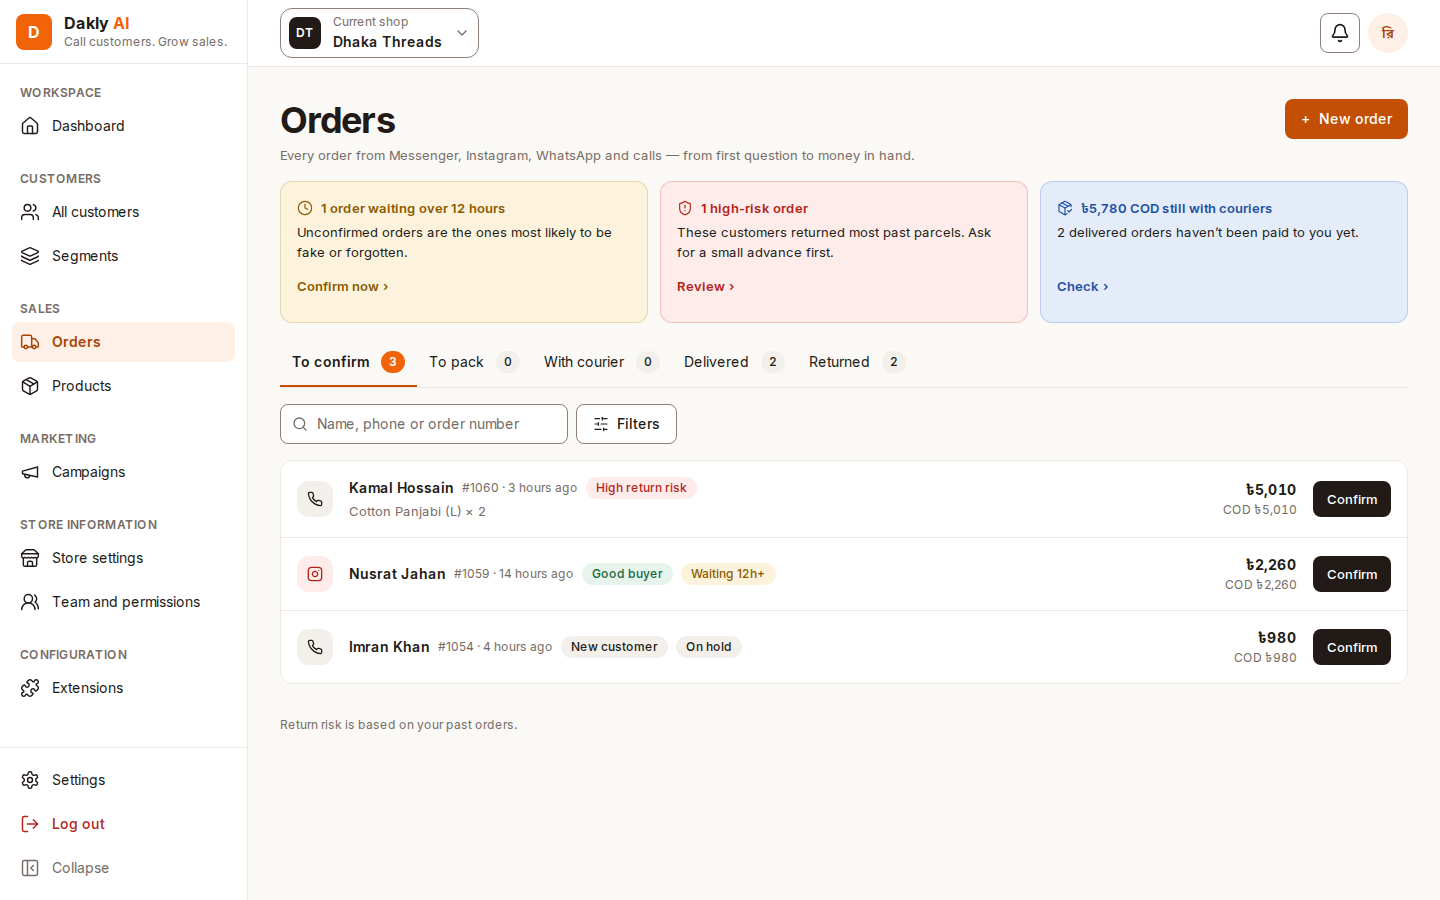
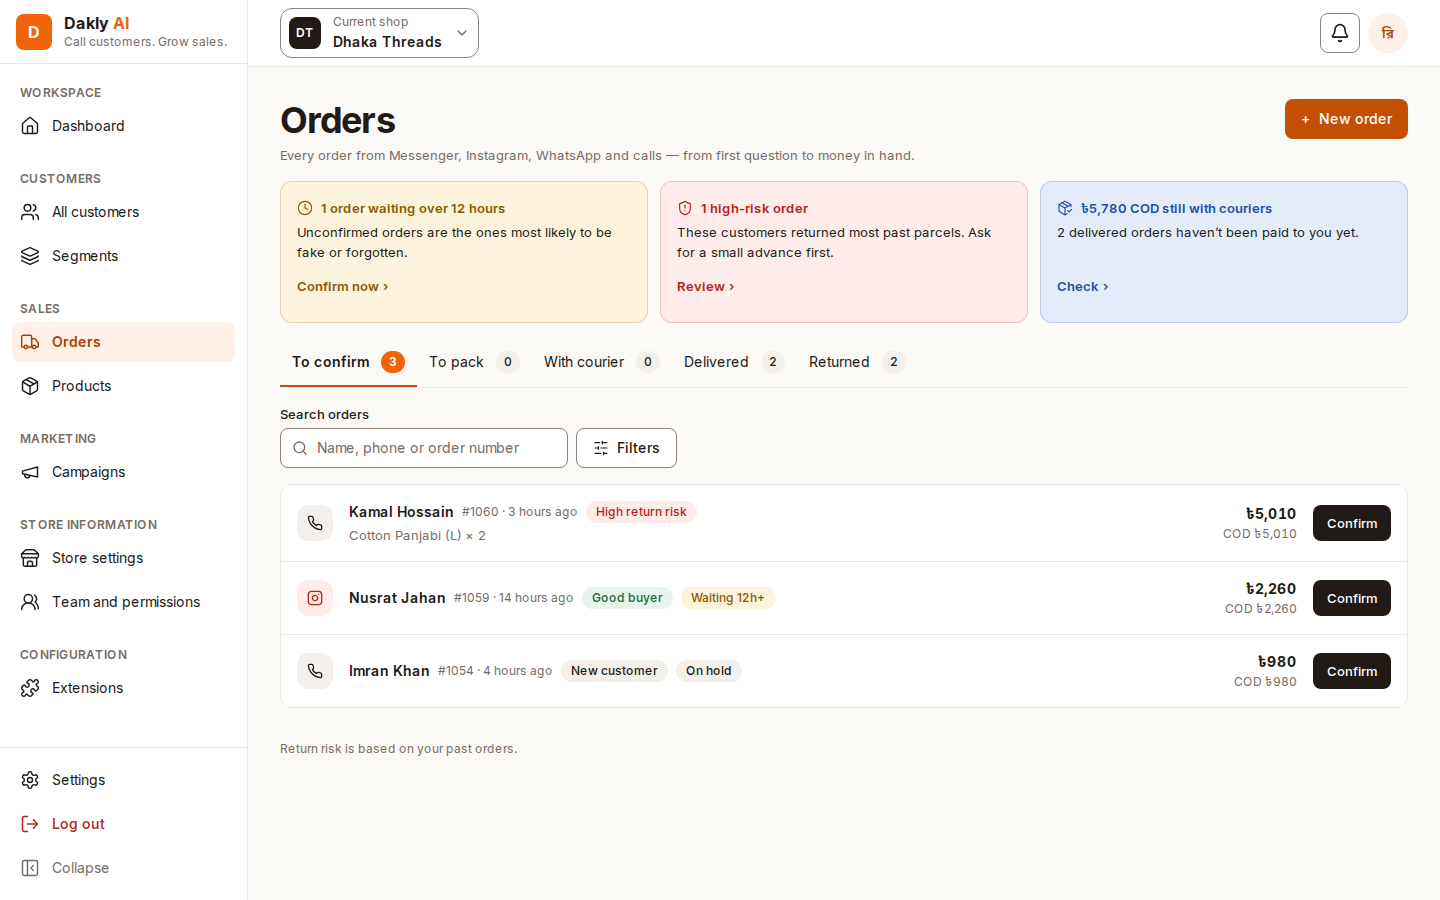
fix(web-7): keep order search controls readable

Changed region(s): [[0.1875, 0.4356, 0.5625, 0.6844], [0.8438, 0.5289, 0.9688, 0.7778], [0.1875, 0.7156, 0.5312, 0.84]]

diff --git a/apps/web/e2e/orders-pipeline.spec.ts b/apps/web/e2e/orders-pipeline.spec.ts
@@ -16,9 +16,7 @@ test('filters the active shop’s pipeline by alert, search and stage', async ({
   const fixture = JSON.parse(process.env.BROWSER_FIXTURE!) as { token: string; storeIds: string[] };
   const storeId = fixture.storeIds[0]!;
   const database = createDatabase(process.env.DATABASE_ADMIN_URL!);
-  const evidence =
-    process.env.WEB_7_ORDERS_SCREENSHOTS ??
-    resolve(process.cwd(), '../../docs/design/evidence/ord-5-pipeline');
+  const evidence = resolve(process.cwd(), '../../docs/design/evidence/web-7-orders-list');
   const orderIds: string[] = [];
   const productId = randomUUID();
   const variantId = randomUUID();
@@ -76,10 +74,11 @@ test('filters the active shop’s pipeline by alert, search and stage', async ({
       await expect
         .poll(() => page.evaluate(() => document.documentElement.scrollWidth))
         .toBeLessThanOrEqual(width);
-      await page.screenshot({
-        path: resolve(evidence, `${name}-${width}.png`),
-        animations: 'disabled',
-      });
+      if (name === 'pipeline')
+        await page.screenshot({
+          path: resolve(evidence, `orders-list-${width}x${height}.png`),
+          animations: 'disabled',
+        });
     }
   }
 
@@ -189,6 +188,7 @@ test('filters the active shop’s pipeline by alert, search and stage', async ({
     await expect(page.getByText('1 high-risk order')).toBeVisible();
     await expect(page.getByText('৳5,780 COD still with couriers')).toBeVisible();
     await expect(page.getByText('Cotton Panjabi (L) × 2')).toBeVisible();
+    await expect(page.getByText('Search orders', { exact: true })).toBeVisible();
     await expect(page.getByRole('searchbox', { name: 'Search orders' })).toBeVisible();
     await expect(page.getByRole('button', { name: 'Filters', exact: true })).toHaveAttribute(
       'aria-expanded',

diff --git a/apps/web/src/features/orders/components/order-search.tsx b/apps/web/src/features/orders/components/order-search.tsx
@@ -23,15 +23,15 @@ export function OrderSearch({ query }: { query: OrderListQuery }) {
     <form
       role="search"
       onSubmit={submit}
-      className="flex min-w-0 flex-1 flex-wrap items-end gap-2 sm:flex-none"
+      className="flex w-full flex-wrap items-end gap-2 sm:w-auto"
     >
-      <div className="w-72 max-w-full">
-        <label htmlFor="order-search" className="sr-only">
+      <div className="w-full max-w-full sm:w-72">
+        <label htmlFor="order-search" className="mb-1 block text-sm font-medium">
           Search orders
         </label>
         <div className="relative">
           <Search
-            className="pointer-events-none absolute top-1/2 left-2 -translate-y-1/2 text-text-muted sm:left-3"
+            className="pointer-events-none absolute top-1/2 left-3 -translate-y-1/2 text-text-muted"
             size={16}
             aria-hidden="true"
           />
@@ -43,7 +43,7 @@ export function OrderSearch({ query }: { query: OrderListQuery }) {
             key={query.search}
             defaultValue={query.search}
             maxLength={120}
-            className="min-h-11 pr-1 pl-8 text-sm placeholder:text-xs sm:min-h-10 sm:pr-3 sm:pl-9 sm:text-base sm:placeholder:text-base"
+            className="pl-9"
           />
         </div>
       </div>

diff --git a/apps/web/src/features/orders/components/order-filters.tsx b/apps/web/src/features/orders/components/order-filters.tsx
@@ -41,14 +41,13 @@ export function OrderFilters({ query }: OrderFiltersProps) {
 
   return (
     <div className="space-y-2">
-      <div className="flex flex-wrap items-start gap-1 sm:gap-2">
+      <div className="flex flex-wrap items-end gap-2">
         <OrderSearch query={query} />
         <Button
           ref={trigger}
           variant="secondary"
           aria-expanded={expanded}
           aria-controls={panelId}
-          className="min-h-11 gap-1 px-2 text-sm sm:min-h-10 sm:gap-2 sm:px-4 sm:text-base"
           onClick={() => setPanel({ applied, expanded: !expanded })}
         >
           <SlidersHorizontal aria-hidden="true" size={16} strokeWidth={1.75} />

diff --git a/docs/features/06-orders-and-delivery.md b/docs/features/06-orders-and-delivery.md
@@ -240,7 +240,7 @@ The prototype is a concept with sample data. Build from this doc, not from the p
 ![Orders](../design/screenshots/orders.webp)
 
 Pipeline by stage with counts and return risk badges. To confirm includes On hold, and Delivered includes Partly delivered. Each combined tab counts both stages. Cards show the order age and use the total supplied by the API.
-The pipeline URL keeps the stage, search, page cursor and selected order. Search uses the buyer or recipient name, order number or exact recipient phone for staff who can see full phones. The alert strip links to orders waiting over 12 hours, high-risk unconfirmed orders with no advance, and unpaid COD on delivered parcels. Counts cover the store. Each alert has a reason and an action that opens the matching orders. The out-of-stock alert waits for the low-stock read. Search sits beside Filters below the stage tabs. Filters opens source, courier and date controls and keeps their values in the URL. Use Filters to view cancelled orders. Date filters include both selected days in the shop’s time zone. The list shows up to two item lines. The order detail shows the recipient, buyer, each item and its line discount, amounts received, and the stage timeline. The detail header shows where the order came from and how long ago it was placed. Staff with Orders edit access can use Mark confirmed at the foot of the drawer for staff-managed orders in To confirm or On hold. Open high-risk orders with no advance include a prompt to ask for one.
+The pipeline URL keeps the stage, search, page cursor and selected order. Search uses the buyer or recipient name, order number or exact recipient phone for staff who can see full phones. The alert strip links to orders waiting over 12 hours, high-risk unconfirmed orders with no advance, and unpaid COD on delivered parcels. Counts cover the store. Each alert has a reason and an action that opens the matching orders. The out-of-stock alert waits for the low-stock read. Search has a visible label below the stage tabs. Filters sits beside it on wider screens and below it on phones. Filters opens source, courier and date controls and keeps their values in the URL. Use Filters to view cancelled orders. Date filters include both selected days in the shop’s time zone. The list shows up to two item lines. The order detail shows the recipient, buyer, each item and its line discount, amounts received, and the stage timeline. The detail header shows where the order came from and how long ago it was placed. Staff with Orders edit access can use Mark confirmed at the foot of the drawer for staff-managed orders in To confirm or On hold. Open high-risk orders with no advance include a prompt to ask for one.
 
 Staff can put eligible orders on hold, return them to To confirm and confirm a cancellation from the drawer. They can also record courier dispatch, mark full or partial delivery, record a return and enter the COD they received. Each form opens over the drawer.
 
